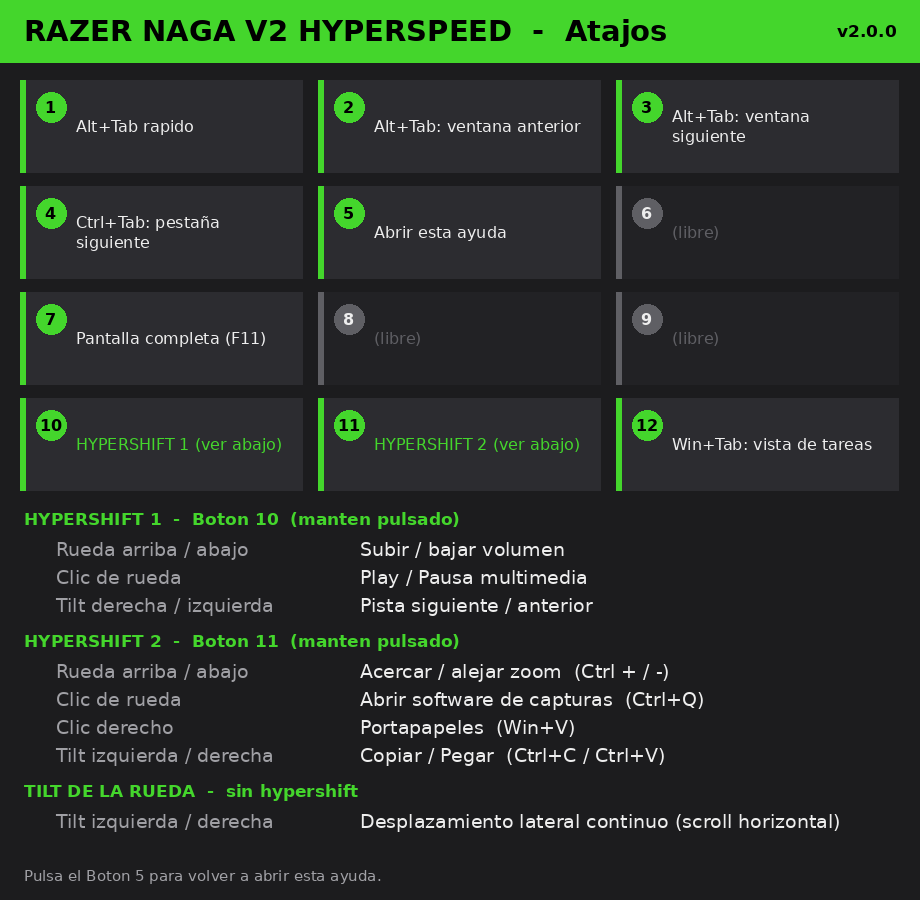
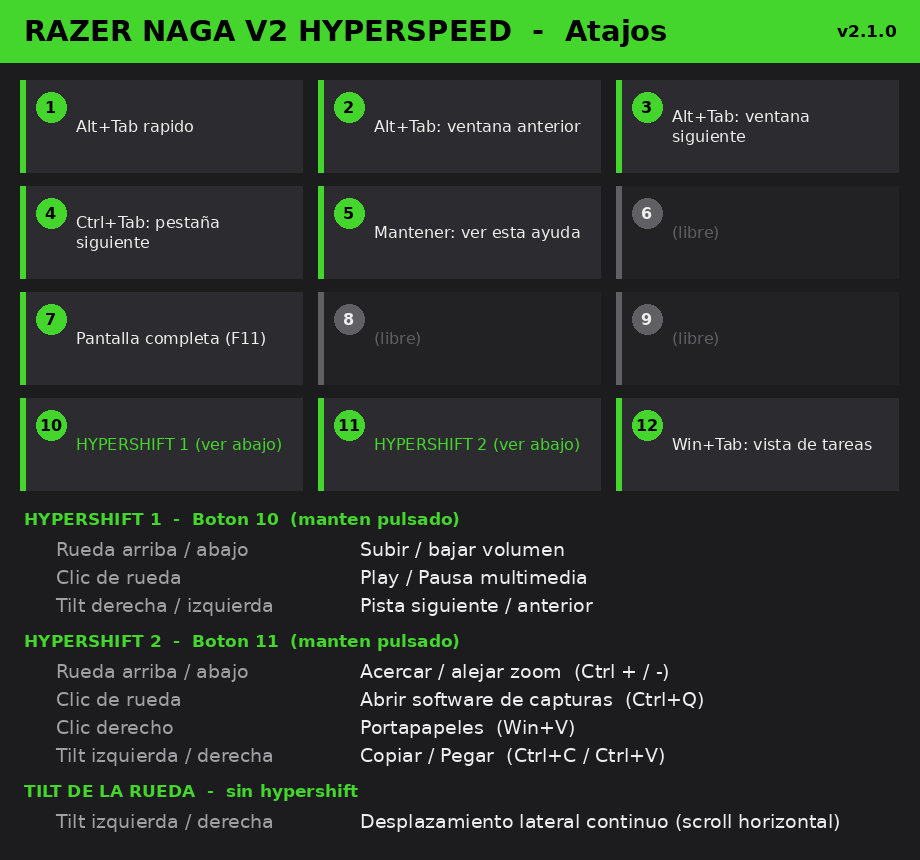
feat(linux): guia de atajos como overlay mientras se mantiene el Boton 5 (v2.1.0)
- GuiaOverlay en linux/naga_macros.py: hilo propio de Tk, ventana
  override-redirect (sin foco ni Alt+Tab), centrada en el monitor del puntero
  (xrandr) y con la imagen precargada. Sin tkinter/DISPLAY cae a xdg-open.
- La guia indica que el Boton 5 se mantiene pulsado.
- README, CLAUDE.md y CHANGELOG actualizados.

diff --git a/linux/naga_macros.py b/linux/naga_macros.py
@@ -24,7 +24,7 @@
 #    Boton 2  (F14) Selector Alt+Tab  <- anterior
 #    Boton 3  (F15) Selector Alt+Tab  -> siguiente
 #    Boton 4  (F16) Ctrl+Tab (siguiente pestaña)
-#    Boton 5  (F17) Abrir la guia de atajos
+#    Boton 5  (F17) Guia de atajos (visible mientras se mantiene)
 #    Boton 6  (F18) LIBRE
 #    Boton 7  (F19) Pantalla completa (F11)
 #    Boton 8  (F20) LIBRE
@@ -139,9 +139,164 @@ if _HAS_TRAY:
     _ICON_WAITING = _make_tray_icon((220, 130, 0, 255))   # naranja: esperando
 
 
+# ============================================================
+#  Overlay de la guia de atajos (Boton 5 mantenido)
+# ============================================================
+def _monitores():
+    """Lista de (x, y, ancho, alto) de cada monitor segun `xrandr`. Vacia si
+    no se puede averiguar (sin xrandr, Wayland puro...): entonces se usa la
+    pantalla completa."""
+    try:
+        out = subprocess.run(["xrandr", "--listmonitors"], capture_output=True,
+                             text=True, timeout=2).stdout
+    except Exception:
+        return []
+    # " 0: +*HDMI-1 1920/528x1080/297+0+0  HDMI-1"
+    return [tuple(int(v) for v in (m[2], m[3], m[0], m[1]))
+            for m in re.findall(r"(\d+)/\d+x(\d+)/\d+\+(-?\d+)\+(-?\d+)", out)]
+
+
+class GuiaOverlay:
+    """Muestra NagaV2_atajos.png como ventana flotante mientras se mantiene el
+    Boton 5 y la oculta al soltarlo (igual que en Windows).
+
+    Tk NO es thread-safe y quiere su propio mainloop, asi que vive en un hilo
+    dedicado; process() solo levanta/baja un Event y el hilo de Tk lo sondea.
+    Nada de llamar a Tk desde el bucle de eventos.
+
+    La ventana es override-redirect: el gestor de ventanas no la decora, no le
+    da el foco y no sale en Alt+Tab (importa: el Boton 1 es Alt+Tab). Se centra
+    en el monitor donde esta el puntero; con varios monitores, centrarla en
+    "la pantalla" de Tk la dejaria partida entre dos.
+
+    Es una sola instancia para todo el proceso (se crea en main()): las
+    NagaMacros se recrean al reconectar el raton, el hilo de Tk no.
+    """
+
+    def __init__(self, ruta):
+        self.ruta = ruta
+        self.error = None
+        self._pedir = threading.Event()     # True = deberia estar visible
+        self._listo = threading.Event()     # el hilo de Tk ya arranco
+        self.visible = False                # estado real (lo fija el hilo Tk)
+        self._t = threading.Thread(target=self._loop, daemon=True,
+                                   name="naga-guia")
+        self._t.start()
+        self._listo.wait(timeout=5)
+        if not self._listo.is_set():
+            self.error = "Tk no arranco a tiempo"
+
+    # --- API para process() (no toca Tk) ---
+    def mostrar(self):
+        self._pedir.set()
+
+    def ocultar(self):
+        self._pedir.clear()
+
+    @property
+    def disponible(self):
+        return self.error is None
+
+    # --- hilo propio de Tk ---
+    def _loop(self):
+        try:
+            import tkinter as tk
+            if not os.environ.get("DISPLAY"):
+                raise RuntimeError("no hay DISPLAY (sesion grafica X11)")
+            root = tk.Tk()
+            root.withdraw()
+            root.overrideredirect(True)          # sin decoracion ni foco
+            root.attributes("-topmost", True)
+            root.title("Naga V2 - Guia de atajos")
+            root.configure(bg="black")
+            lbl = tk.Label(root, bd=0, highlightthickness=0, bg="black")
+            lbl.pack()
+            try:
+                root.attributes("-alpha", 0.96)  # requiere compositor
+            except tk.TclError:
+                pass
+            original = self._abrir(tk)
+        except Exception as ex:
+            self.error = str(ex)
+            self._listo.set()
+            return
+
+        cache = {}           # alto maximo -> PhotoImage (una por tamano de monitor)
+        monitores = _monitores()
+        # Precarga: escalar la imagen al primer uso costaba ~250 ms de retardo
+        # al pulsar el Boton 5. Se prepara ya una por cada alto de monitor.
+        try:
+            for alto_mon in {m[3] for m in monitores}:
+                cache.setdefault(int(alto_mon * 0.9),
+                                 self._escalar(tk, original, int(alto_mon * 0.9)))
+        except Exception:
+            pass
+        self._listo.set()
+
+        def colocar():
+            nonlocal monitores
+            px, py = root.winfo_pointerxy()
+            dentro = [m for m in monitores
+                      if m[0] <= px < m[0] + m[2] and m[1] <= py < m[1] + m[3]]
+            if not dentro:                       # cambio de monitores: releer
+                monitores = _monitores()
+                dentro = [m for m in monitores
+                          if m[0] <= px < m[0] + m[2] and m[1] <= py < m[1] + m[3]]
+            mx, my, mw, mh = dentro[0] if dentro else (
+                0, 0, root.winfo_screenwidth(), root.winfo_screenheight())
+            maximo = int(mh * 0.9)
+            if maximo not in cache:
+                cache[maximo] = self._escalar(tk, original, maximo)
+            img = cache[maximo]
+            lbl.configure(image=img)
+            ancho, alto = img.width(), img.height()
+            root.geometry(f"{ancho}x{alto}+{mx + (mw - ancho) // 2}"
+                          f"+{my + (mh - alto) // 2}")
+
+        def tick():
+            quiere = self._pedir.is_set()
+            if quiere and not self.visible:
+                try:
+                    colocar()
+                except Exception as ex:
+                    print(f"Guia: no pude colocar el overlay: {ex}")
+                root.deiconify()
+                root.lift()
+                self.visible = True
+            elif not quiere and self.visible:
+                root.withdraw()
+                self.visible = False
+            root.after(30, tick)
+
+        root.after(30, tick)
+        root.mainloop()
+
+    def _abrir(self, tk):
+        """Imagen original: con Pillow si esta (escala con calidad); si no, el
+        PhotoImage de Tk (lee PNG en Tk 8.6+)."""
+        if _HAS_TRAY:                            # Pillow ya importado
+            return Image.open(self.ruta).convert("RGB")
+        return tk.PhotoImage(file=self.ruta)
+
+    @staticmethod
+    def _escalar(tk, original, maximo):
+        if _HAS_TRAY:
+            from PIL import ImageTk
+            im = original
+            if im.height > maximo:
+                im = im.resize((int(im.width * maximo / im.height), maximo),
+                               Image.LANCZOS)
+            return ImageTk.PhotoImage(im)
+        if original.height() <= maximo:
+            return original
+        factor = -(-original.height() // maximo)   # sin Pillow: solo enteros
+        return original.subsample(factor, factor)
+
+
 class NagaMacros:
-    def __init__(self, stop_event=None):
+    def __init__(self, stop_event=None, guia=None):
         self._stop = stop_event if stop_event is not None else threading.Event()
+        self.guia = guia             # GuiaOverlay compartido (o None)
         self.hyper1 = False          # Boton 10 mantenido
         self.hyper2 = False          # Boton 11 mantenido
         self.alttab_open = False
@@ -316,14 +471,26 @@ class NagaMacros:
             self.alttab(forward=True)
         elif n == 4:                     # siguiente pestaña
             self.tap(e.KEY_LEFTCTRL, e.KEY_TAB)
-        elif n == 5:                     # abrir guia de atajos
-            subprocess.Popen(["xdg-open", IMAGE_PATH],
-                             close_fds=True, start_new_session=True)
         elif n == 7:                     # pantalla completa
             self.tap(e.KEY_F11)
         elif n == 12:                    # overview (tecla Super)
             self.tap(e.KEY_LEFTMETA)
-        # 6, 8, 9 -> LIBRES (sin accion)
+        # 6, 8, 9 -> LIBRES (sin accion). El 5 va aparte (guia_*): actua al
+        # pulsar Y al soltar.
+
+    # ---------- guia de atajos (Boton 5) ----------
+    def guia_mostrar(self):
+        """Overlay mientras se mantiene el boton. Si el overlay no esta
+        disponible (sin tkinter/DISPLAY), abre la imagen con el visor."""
+        if self.guia is not None and self.guia.disponible:
+            self.guia.mostrar()
+            return
+        subprocess.Popen(["xdg-open", IMAGE_PATH],
+                         close_fds=True, start_new_session=True)
+
+    def guia_ocultar(self):
+        if self.guia is not None:
+            self.guia.ocultar()
 
     # ---------- bucle principal ----------
     def run(self):
@@ -381,6 +548,12 @@ class NagaMacros:
                (self.shift_held or self.scroll_key == ev.code):
                 self.tilt_combo(ev.code, ev.value)
                 return
+            if n == 5:                   # guia: visible MIENTRAS se mantiene
+                if ev.value == 1:
+                    self.guia_mostrar()
+                elif ev.value == 0:
+                    self.guia_ocultar()
+                return                   # (value 2 = auto-repeticion: nada)
             if ev.value == 1:            # pulsado
                 if n == 10:
                     self.hyper1 = True
@@ -458,6 +631,7 @@ class NagaMacros:
 
     def cleanup(self):
         self.alttab_close()
+        self.guia_ocultar()          # por si se desconecta con el Boton 5 pulsado
         for d in self.grab_devs:
             try:
                 d.ungrab()
@@ -503,6 +677,17 @@ def main():
     except Exception as ex:
         print(f"Aviso: no se pudo establecer prioridad en tiempo real: {ex}")
 
+    # Overlay de la guia (Boton 5 mantenido): uno para todo el proceso. Si Tk
+    # o la imagen fallan, se avisa y el Boton 5 cae al visor de imagenes.
+    guia = None
+    if os.path.exists(IMAGE_PATH):
+        guia = GuiaOverlay(IMAGE_PATH)
+        if not guia.disponible:
+            print(f"(sin overlay: {guia.error}; el Boton 5 abrira la imagen "
+                  f"en el visor)")
+    else:
+        print(f"(no encuentro {IMAGE_PATH}; el Boton 5 no hara nada)")
+
     # Estado compartido entre el hilo worker y el hilo del tray
     _app   = [None]               # instancia NagaMacros actual
     _stop  = [threading.Event()]  # evento de parada; se limpia en cada iteracion
@@ -521,7 +706,7 @@ def main():
             _stop[0].clear()
             _set_active(False)
             try:
-                _app[0] = NagaMacros(stop_event=_stop[0])
+                _app[0] = NagaMacros(stop_event=_stop[0], guia=guia)
             except OSError as ex:
                 _app[0] = None
                 if ex.errno == 19:

diff --git a/generar_guia_atajos.py b/generar_guia_atajos.py
@@ -35,7 +35,7 @@ CELDAS = [
     (2,  "Alt+Tab: ventana anterior",  0),
     (3,  "Alt+Tab: ventana siguiente", 0),
     (4,  "Ctrl+Tab: pestaña siguiente", 0),
-    (5,  "Abrir esta ayuda",           0),
+    (5,  "Mantener: ver esta ayuda",   0),
     (6,  "(libre)",                    2),
     (7,  "Pantalla completa (F11)",    0),
     (8,  "(libre)",                    2),
@@ -63,8 +63,6 @@ SECCIONES = [
     ]),
 ]
 
-PIE = "Pulsa el Boton 5 para volver a abrir esta ayuda."
-
 
 def _leer_version():
     """Primera entrada '## [X.Y.Z]' del CHANGELOG.md (fuente unica)."""
@@ -82,7 +80,7 @@ DESTINOS = ["windows", "linux"]
 NOMBRE_IMAGEN = "NagaV2_atajos.png"
 
 # ---------------- ESTILO ----------------
-W, H = 920, 900
+W, H = 920, 860
 BG          = (28, 28, 30)
 PANEL       = (44, 44, 48)
 PANEL_VACIO = (34, 34, 37)
@@ -145,7 +143,6 @@ def generar():
     f_num    = _fuente(12, negrita=True)
     f_celda  = _fuente(12)
     f_fila   = _fuente(14)
-    f_chica  = _fuente(11)
 
     # --- cabecera ---
     d.rectangle([0, 0, W, 62], fill=VERDE)
@@ -184,7 +181,6 @@ def generar():
             y += 28
         y += 8
 
-    d.text((24, H - 30), PIE, font=f_chica, fill=GRIS, anchor="lt")
     # Version en la cabecera: si la guia esta desactualizada respecto a los
     # scripts (no se regenero al subir la version), se nota a simple vista.
     d.text((W - 24, 31), "v" + _leer_version(), font=f_cabeza, fill=NEGRO,

diff --git a/CLAUDE.md b/CLAUDE.md
@@ -39,7 +39,7 @@ Botón → tecla: **Botón N = F(12+N)** → Botón 1=F13 … Botón 12=F24.
 | 2 | F14 | Selector Alt+Tab persistente — anterior |
 | 3 | F15 | Selector Alt+Tab persistente — siguiente |
 | 4 | F16 | Siguiente pestaña (Ctrl+Tab) |
-| 5 | F17 | Abrir la guía de atajos (`NagaV2_atajos.png`) |
+| 5 | F17 | Guía de atajos (`NagaV2_atajos.png`) como overlay **mientras se mantiene** |
 | 6 | F18 | **LIBRE** |
 | 7 | F19 | Pantalla completa (F11) |
 | 8 | F20 | **LIBRE** |
@@ -356,6 +356,24 @@ benchmark (no son el problema): `app_en_foco()` sin caché = **0,03 ms**, el
   - Linux: `IMAGE_PATH` se calcula con `os.path.dirname(os.path.abspath(__file__))`
     para ser siempre relativa al directorio del script, sin importar desde dónde
     se arranque.
+- **Overlay de la guía en Linux (Botón 5 mantenido) — `GuiaOverlay`:** misma
+  idea que en Windows (hilo propio de Tk que sondea un `Event` cada 30 ms;
+  **nunca llamar a Tk desde `process()`**). Diferencias:
+  - Se crea **una sola vez en `main()`** y se pasa a cada `NagaMacros(guia=...)`:
+    las `NagaMacros` se recrean al reiniciar/reconectar, el hilo de Tk no.
+    `cleanup()` la oculta por si el ratón se desconecta con el botón pulsado.
+  - El Botón 5 se trata en `process()` (pulsar → mostrar, soltar → ocultar,
+    `value == 2` = auto-repetición, se ignora), **no** en `boton_simple()`.
+  - Ventana **override-redirect**: el WM no la decora, no le da foco y no sale en
+    Alt+Tab (equivale al `WS_EX_NOACTIVATE | WS_EX_TOOLWINDOW` de Windows).
+  - **Multimonitor:** Tk ve en X11 una sola pantalla virtual (todos los
+    monitores juntos); centrar ahí deja la guía partida entre dos. Se lee
+    `xrandr --listmonitors` (`_monitores()`) y se centra en el monitor del
+    puntero, escalando a ≤90 % de su alto (una `PhotoImage` cacheada por alto).
+  - La caché se **precarga** al arrancar: escalar en la primera pulsación metía
+    ~250 ms de retardo.
+  - Requiere `DISPLAY` (la unidad systemd lo hereda de la sesión gráfica). Sin
+    tkinter/`DISPLAY`, `guia_mostrar()` cae a `xdg-open`.
 - **Grab de dispositivos en Linux (crítico):**
   El Naga V2 HS aparece como **5 interfaces** separadas en `/dev/input/`:
   `Mouse`, `Keyboard`, `Naga V2 HS`, `System Control`, `Consumer Control`.

diff --git a/README.md b/README.md
@@ -65,7 +65,7 @@ Correspondencia botón → tecla:
 | **2** | Selector Alt+Tab persistente — ventana **anterior** |
 | **3** | Selector Alt+Tab persistente — ventana **siguiente** |
 | **4** | Siguiente pestaña (`Ctrl+Tab`) |
-| **5** | Abrir esta guía de atajos (imagen) |
+| **5** | Guía de atajos — visible **mientras se mantiene** pulsado (overlay) |
 | **6** | *(libre)* |
 | **7** | Pantalla completa (`F11`) |
 | **8** | *(libre)* |
@@ -301,6 +301,17 @@ instalados, aparece un ícono circular en la bandeja:
 - **Naranja** → esperando que el ratón se conecte.
 
 Clic derecho sobre el ícono para acceder al menú **Reiniciar** / **Salir**.
+
+### La guía de atajos como overlay (Botón 5)
+
+Igual que en Windows: al **mantener pulsado el Botón 5** la guía aparece
+flotando y desaparece al soltarlo. No roba el foco ni sale en el Alt+Tab. Con
+varios monitores se centra en el que tiene el puntero.
+
+Usa `tkinter` (y `Pillow`, si está, para escalar la imagen en pantallas
+pequeñas) y `xrandr` para conocer los monitores. Si tu Python no trae tkinter:
+`sudo apt install python3-tk`. Sin tkinter, o sin sesión gráfica, el Botón 5
+abre la imagen con el visor del sistema. Probado en GNOME sobre X11.
 
 ### Ejecutar sin `sudo`
 1. Añade tu usuario al grupo `input` y reinicia sesión:

diff --git a/CHANGELOG.md b/CHANGELOG.md
@@ -10,6 +10,16 @@ regenera la guía (`python generar_guia_atajos.py`), haz commit y etiqueta
 macro nueva o cambiada; MAYOR = cambio que obliga a reconfigurar algo
 (Synapse, rutas, autoarranque).
 
+## [2.1.0] - 2026-10-16
+
+### Añadido
+- Linux: la guía de atajos se muestra como overlay **mientras se mantiene** el
+  Botón 5, igual que en Windows (sin robar el foco y centrada en el monitor del
+  puntero).
+
+### Cambiado
+- La guía indica que el Botón 5 se mantiene pulsado para verla.
+
 ## [2.0.0] - 2026-10-16
 
 ### Cambiado
